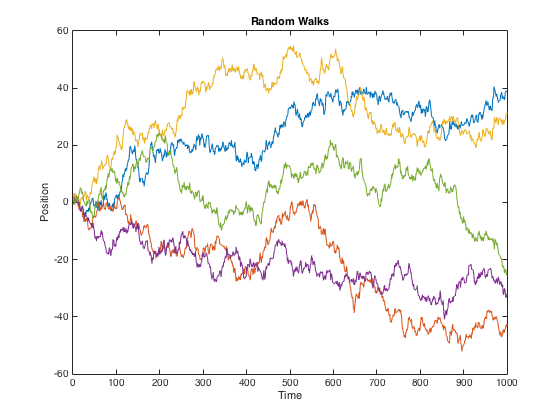
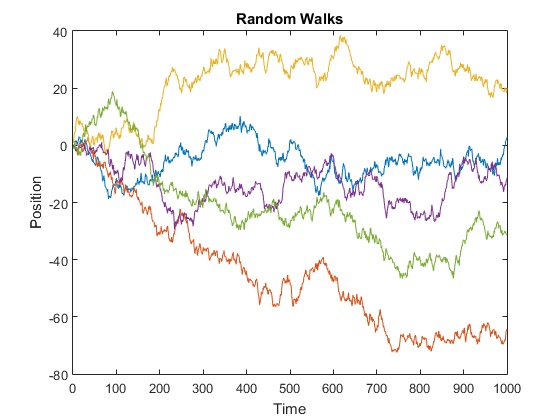
Line endings, readme

diff --git a/examples/enjaden_example.html b/examples/enjaden_example.html
@@ -44,16 +44,14 @@ xlabel('Time');
 ylabel('Position');
 title('Random Walks');
 </code></pre><pre class="output"><code>ans =
-
-   38.8540
--42.3989
-   31.4641
--31.8146
-  -24.5901
-  </code></pre><figure><img src="img/enjaden_example_01.png"></figure><h2>Second Section</h2><p>In this section, we'll highlight that you don't <strong>always</strong> have to skip a
+    2.8769
+-64.2437
+   20.1303
+-11.3588
+  -31.2417</code></pre><figure><img src="img/enjaden_example_01.png"></figure><h2>Second Section</h2><p>In this section, we'll highlight that you don't <strong>always</strong> have to skip a
 line between the header and paragraph. But we might want to before
 inserting an image so that it will get its own line and not be part of
-the paragraph:</p><p><img src="https://github.com/tuckermcclure/m2jade/blob/master/ml2jade-logo.png">
+the paragraph:</p><p><img src="../ml2jade-logo.png">
 </p><!-- cell 4--><p>Note that the location of the image can be absolute or relative to the 
 file.
 </p><h2>Section the Third</h2><p>Note that any time you change a figure, it gets included in the output.
@@ -134,7 +132,7 @@ a new Jade file.</p><!--| ##### SOURCE BEGIN #####
 | % inserting an image so that it will get its own line and not be part of
 | % the paragraph:
 | % 
-| % <<https://github.com/tuckermcclure/m2jade/blob/master/ml2jade-logo.png>>
+| % <<../ml2jade-logo.png>>
 | 
 | %%
 | % Note that the location of the image can be absolute or relative to the 

diff --git a/enjaden.m b/enjaden.m
@@ -157,7 +157,7 @@ function success = enjaden(file_in_name, out_dir, template_name, evaluate, rende
 
         % Get the nominal spacing.
         page_spaces  = regexp(template, ...
-                            '(\ *)<ml2jade=page_content>[\n|$]', 'tokens');
+                            '(\ *)<ml2jade=page_content>[\n\r$]', 'tokens');
         page_spaces  = page_spaces{1}{1};
         block_spaces = [page_spaces, '  '];
 

diff --git a/enjaden_example.m b/enjaden_example.m
@@ -61,7 +61,7 @@ title('Random Walks');
 % inserting an image so that it will get its own line and not be part of
 % the paragraph:
 % 
-% <<https://github.com/tuckermcclure/m2jade/blob/master/ml2jade-logo.png>>
+% <<../ml2jade-logo.png>>
 
 %%
 % Note that the location of the image can be absolute or relative to the 

diff --git a/README.md b/README.md
@@ -1,8 +1,9 @@
-# ml2jade
+![ml2jade](ml2jade-logo.png)
 
-This tool does two things:
+This tool does three things:
 * Publish a MATLAB script to a Jade file;
-* Evaluate code snippets in an existing Jade file and add the results to the original Jade.
+* Evaluate code snippets in an existing Jade file and add the results to the original Jade;
+* Render the Jade file from either of the above to static HTML (requires Node, Jade, and Stylus)
 
 It works like MATLAB's built-in <code>publish</code> function, but produces very clean Jade syntax, which can be easily combined with templates or stylesheets.
 
@@ -14,16 +15,25 @@ To publish a MATLAB script to Jade, call <code>enjaden</code> from within MATLAB
 ```
 enjaden('my_script.m');
 ```
-To use a custom template for the page frame (see the included _template.jade for more):
+By default, the output directory will be the same directory the file is in. To specify the output directory:
 ```
-enjaden('my_script.m', '_my_jade_template.jade');
+enjaden('my_script.m', 'path/to/outputs');
 ```
-When the template isn't provided or is empty ([]), it will use _template.jade.
+To use a custom template for the page frame (see the included <code>_template.jade</code> for more):
+```
+enjaden('my_script.m', 'path/to/outputs', '_my_jade_template.jade');
+```
+When the template isn't provided or is empty (<code>[]</code>), it will use <code>_template.jade</code>.
   
-To publish to Jade _without_ evaluating the code (just rendering the code itself):
+To publish to Jade _without_ evaluating the code (just translating the code itself):
 ```
-enjaden('my_script.m', [], false);
+enjaden('my_script.m', 'path/to/outputs', [], false);
 ```
+Finally, the render the Jade to static HTML (requires Node, Jade, and Stylus):
+```
+enjaden('my_script.m', 'path/to/outputs', [], [], true);
+```
+
 # Installation of <code>ml2jade</code>
 
 If you're a GitHub user, you can clone <code>ml2jade</code> to whatever location you like. Just add this location to the MATLAB path.
@@ -32,16 +42,31 @@ If you're not a GitHub user, you can just download a copy (link at the right han
 
 # Using Jade
 
-If you already have a way to work with Jade files, there's nothing new you'll need to do here. Otherwise, you should know that Jade is a great language for making web pages. You can actually run a server that serves up Jade files or you can render .jade files down to static HTML. Either way, you'll need a tool to do so. [Harp](www.harpjs.com) is a great choice. It runs on [Node.js](www.nodejs.org) and is light and easy to use. Here's how to get set up with using Jade + Harp for the first time:
+If you already have a way to work with Jade files, there's nothing new you'll need to do here. Otherwise, you should know that Jade is a great language for making web pages. You can actually run a server that serves up Jade files or you can render .jade files down to static HTML.
+
+Let's look at rendering to static HTML first. <code>ml2jade</code> can do this for you; it's the final argument to <code>ml2jade</code> and <code>enjaden</code>. You'll just need to have Node, Jade, and Stylus installed.
 
 1. Head on over to [Node.js](www.nodejs.org) and download the appropriate installer for your system. Run the installer.
-2. If that worked, open a terminal window (command line) and run <code>npm install -g harp</code> (or <code>sudo npm install -g harp</code> if you get a message about permissions on OS X or Linux).
-That's it for installation!
+2. If that worked, open a terminal window (command line) and run <code>npm install jade -g</code> (or <code>sudo npm install jade -g</code> if you get a message about permissions on OS X or Linux).
+3. Now install Stylus the same way: <code>npm install stylus -g</code> (or <code>sudo npm install stylus -g</code>).
+
+Done! Now the <code>render</code> option to <code>ml2jade</code> and <code>enjaden</code> will work and will produce a static HTML page from the generated Jade files.
+
+For an example of using <code>ml2jade</code> with your new Jade + Stylus installation:
+
+1. Open MATLAB, navigate to wherever you put <code>ml2jade</code> and run <code>enjaden('enjaden_example.m', 'jade')</code> to publish <code>enjaden_example.m</code> to <code>jade/enjaden_example.jade</code>. This will publish the MATLAB script to a Jade file in <code>ml2jade/jade/enjaden_example.jade</code>.
+2. To convert the Jade all the way to HTML, run <code>enjaden('enjaden_example.m', 'jade', [], [], true)</code> (that's file name, output directory, template [default], evaluate [default], and _render_). This will create <code>ml2jade/jade/enjaden_example.html</code>.
+
+Using a server is a great choice too, and [Harp](www.harpjs.com) is particularly easy. It also runs on [Node.js](www.nodejs.org) and is light and easy to use. Here's how to get set up with using Harp for the first time:
+
+1. Head on over to [Node.js](www.nodejs.org) and download the appropriate installer for your system. Run the installer.
+2. If that worked, open a terminal window (command line) and run <code>npm install harp -g</code> (or <code>sudo npm install harp -g</code> if you get a message about permissions on OS X or Linux).
+
+That's it for installation! You can now navigate to any directory with Jade files and run <code>harp server</code>.
 
 For an example of using <code>ml2jade</code> with your new Harp installation:
 
-1. Open MATLAB, navigate to wherever you put <code>ml2jade</code> and run <code>enjaden('enjaden_example.m', [], [], 'jade')</code> to publish <code>enjaden_example.m</code> to <code>jade/enjaden_example.jade</code>.
+1. Open MATLAB, navigate to wherever you put <code>ml2jade</code> and run <code>enjaden('enjaden_example.m', 'jade')</code> to publish <code>enjaden_example.m</code> to <code>ml2jade/jade/enjaden_example.jade</code>.
 2. Back in the terminal window, navigate to the <code>ml2jade/jade</code> directory (which was just created). Type <code>harp server</code>.
 3. Open up a broswer and navigate to <code>http://localhost:9000/enjaden_example.html</code>, and the published page should pop up.
 4. You can leave the Harp server up as long as you like. When you're done viewing Jade files, go back to the terminal window and use ctrl+c to stop the server.
-5. To produce static HTML from the Jade files, use <code>harp compile</code>.
